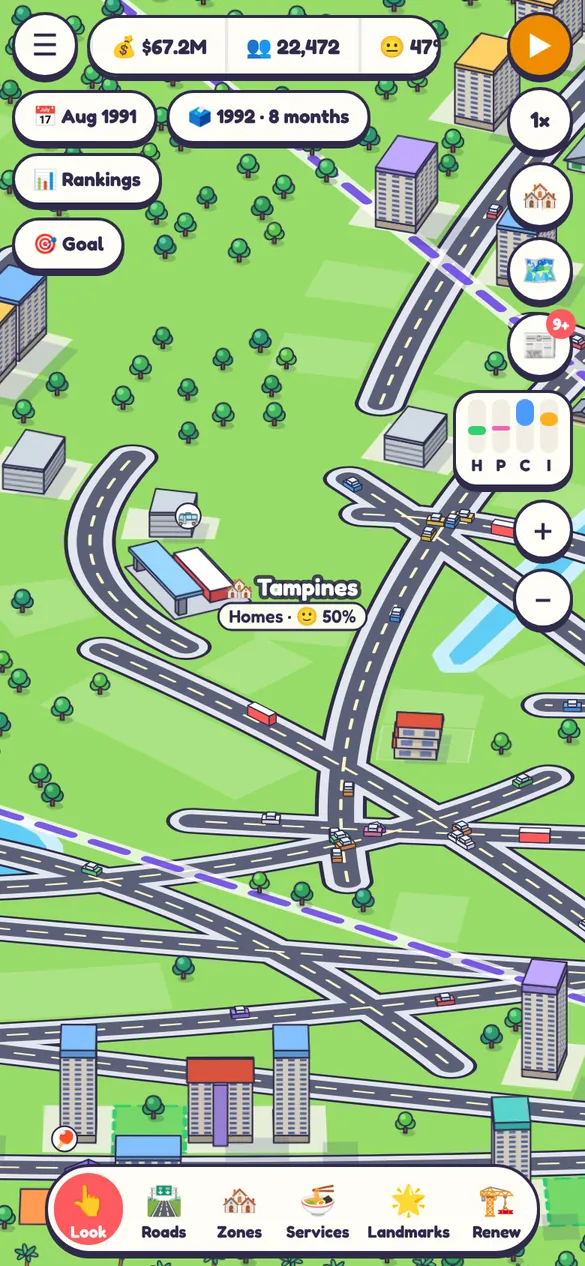
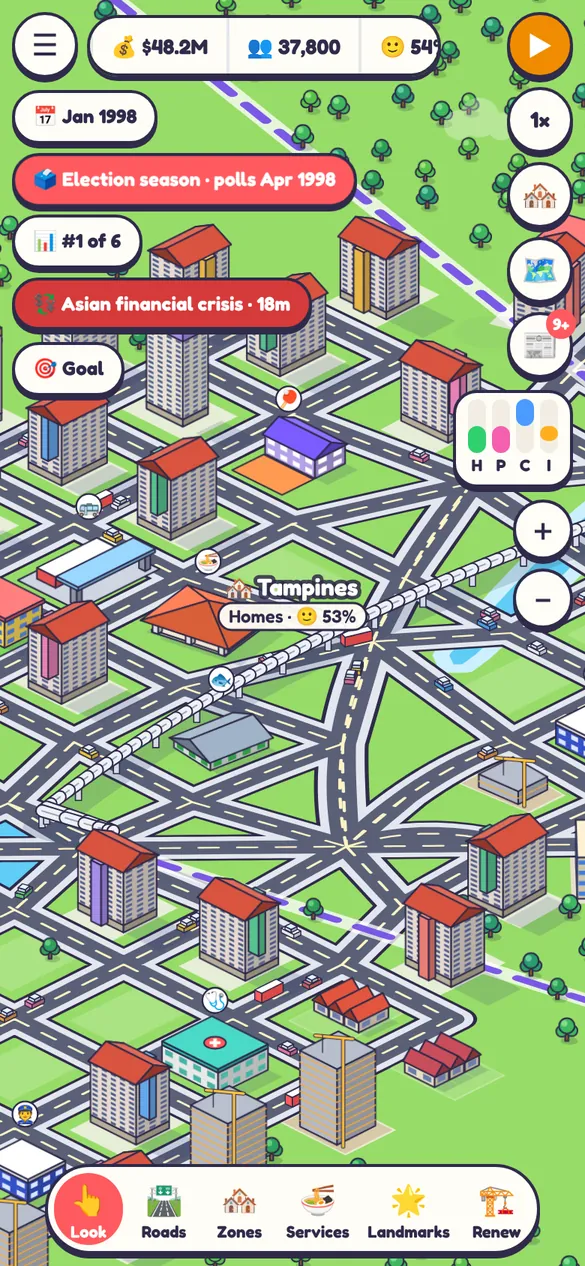
Lion City Mayor landing page: planned-city screenshots
The game screenshots came from saves whose roads grew at random and
looked tangled. They now show a planned east region in 1998: street
grids at Bedok, Tampines and Pasir Ris, curved avenues between them,
the old trunk road, an elevated MRT line over the main avenue, and
renewed HDB blocks, offices and factories. Captions updated.

Claude-Session: https://claude.ai/code/session_01Fz6CGh97AAt2wCzdDGfACn

diff --git a/lioncity.html b/lioncity.html
@@ -223,8 +223,8 @@ footer a:hover{color:var(--ink)}
 <figure class="shot rv">
     <div class="frame">
       <div class="frame-bar" aria-hidden="true"><i></i><i></i><i></i><span>gcwm-play.github.io/mathquizSGPrimary/mayor.html</span></div>
-      <img class="desk" src="landing/lioncity/game-desktop.webp" width="1800" height="1125" fetchpriority="high" alt="The game in 2005: a coastal region with Chinatown's shophouses, HDB blocks, a polyclinic, an MRT line and a river, with the budget, population and happiness along the top.">
-      <img class="phone" src="landing/lioncity/game-phone.webp" width="585" height="1266" loading="lazy" alt="The game on a phone: Tampines in 1991 with HDB blocks, an MRT line and the build tools along the bottom.">
+      <img class="desk" src="landing/lioncity/game-desktop.webp" width="1800" height="1125" fetchpriority="high" alt="The game in 1998: Bedok, Tampines and Pasir Ris laid out on street grids joined by curved avenues, with HDB blocks, polyclinics, an elevated MRT line over the main avenue, and the budget, population and happiness along the top.">
+      <img class="phone" src="landing/lioncity/game-phone.webp" width="585" height="1266" loading="lazy" alt="The game on a phone: Tampines town centre in 1998 with HDB blocks on a street grid, the MRT line and the build tools along the bottom.">
     </div>
 </figure>
 <div class="after-hero"></div>
@@ -251,7 +251,7 @@ footer a:hover{color:var(--ink)}
             <li><svg width="16" height="16" viewBox="0 0 256 256" fill="currentColor" aria-hidden="true"><path d="M229.66 77.66l-128 128a8 8 0 0 1-11.32 0l-56-56a8 8 0 0 1 11.32-11.32L96 188.69 218.34 66.34a8 8 0 0 1 11.32 11.32Z"/></svg><span><b>Old blocks age.</b> Upgrade them, or rebuild them and rehouse the residents first.</span></li>
           </ul>
         </div>
-        <div class="pic rv"><img src="landing/lioncity/build.webp" width="1600" height="1000" loading="lazy" alt="Tampines and Bedok in 1991: colourful HDB blocks, factories, a pond, a river and an MRT line weaving between curved roads."></div>
+        <div class="pic rv"><img src="landing/lioncity/build.webp" width="1600" height="1000" loading="lazy" alt="Tampines and Bedok in 1998: HDB blocks and towers on a street grid, an MRT line running above a curved avenue, a polyclinic, a school, a market and a river."></div>
       </div>
 
       <div class="row flip" id="history">
